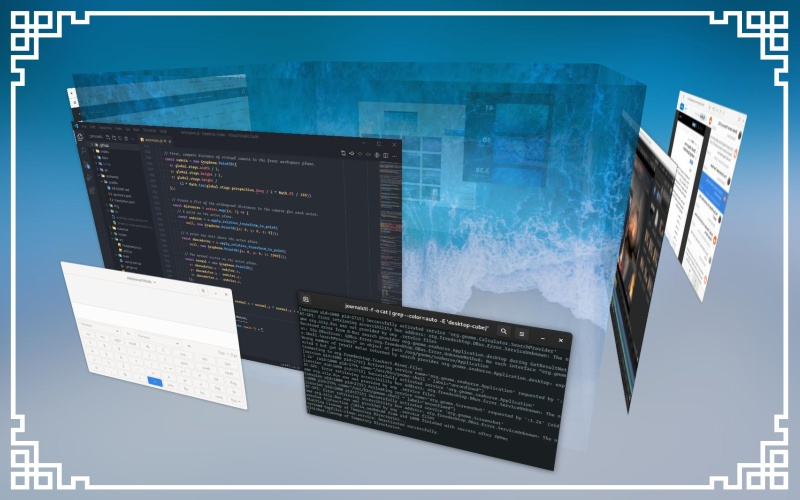
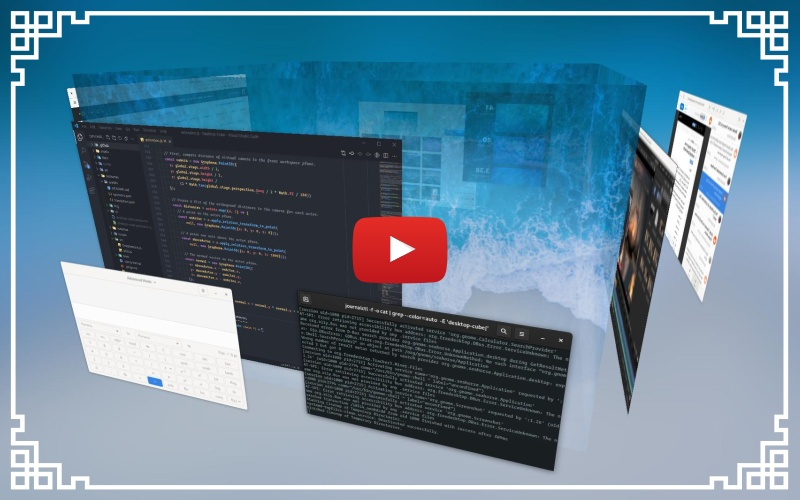
:memo: Add link to video

Changed region(s): [[0.4375, 0.42, 0.5625, 0.57]]

diff --git a/README.md b/README.md
@@ -1,5 +1,5 @@
 <p align="center">
-  <img src ="docs/pics/teaser.jpg" />
+  <a href="https://www.youtube.com/watch?v=J7pdnkv7v1A"><img src ="docs/pics/teaser.jpg" /></a>
 </p>
 
 <h1 align="center">A Desktop Cube for GNOME Shell</h1>
